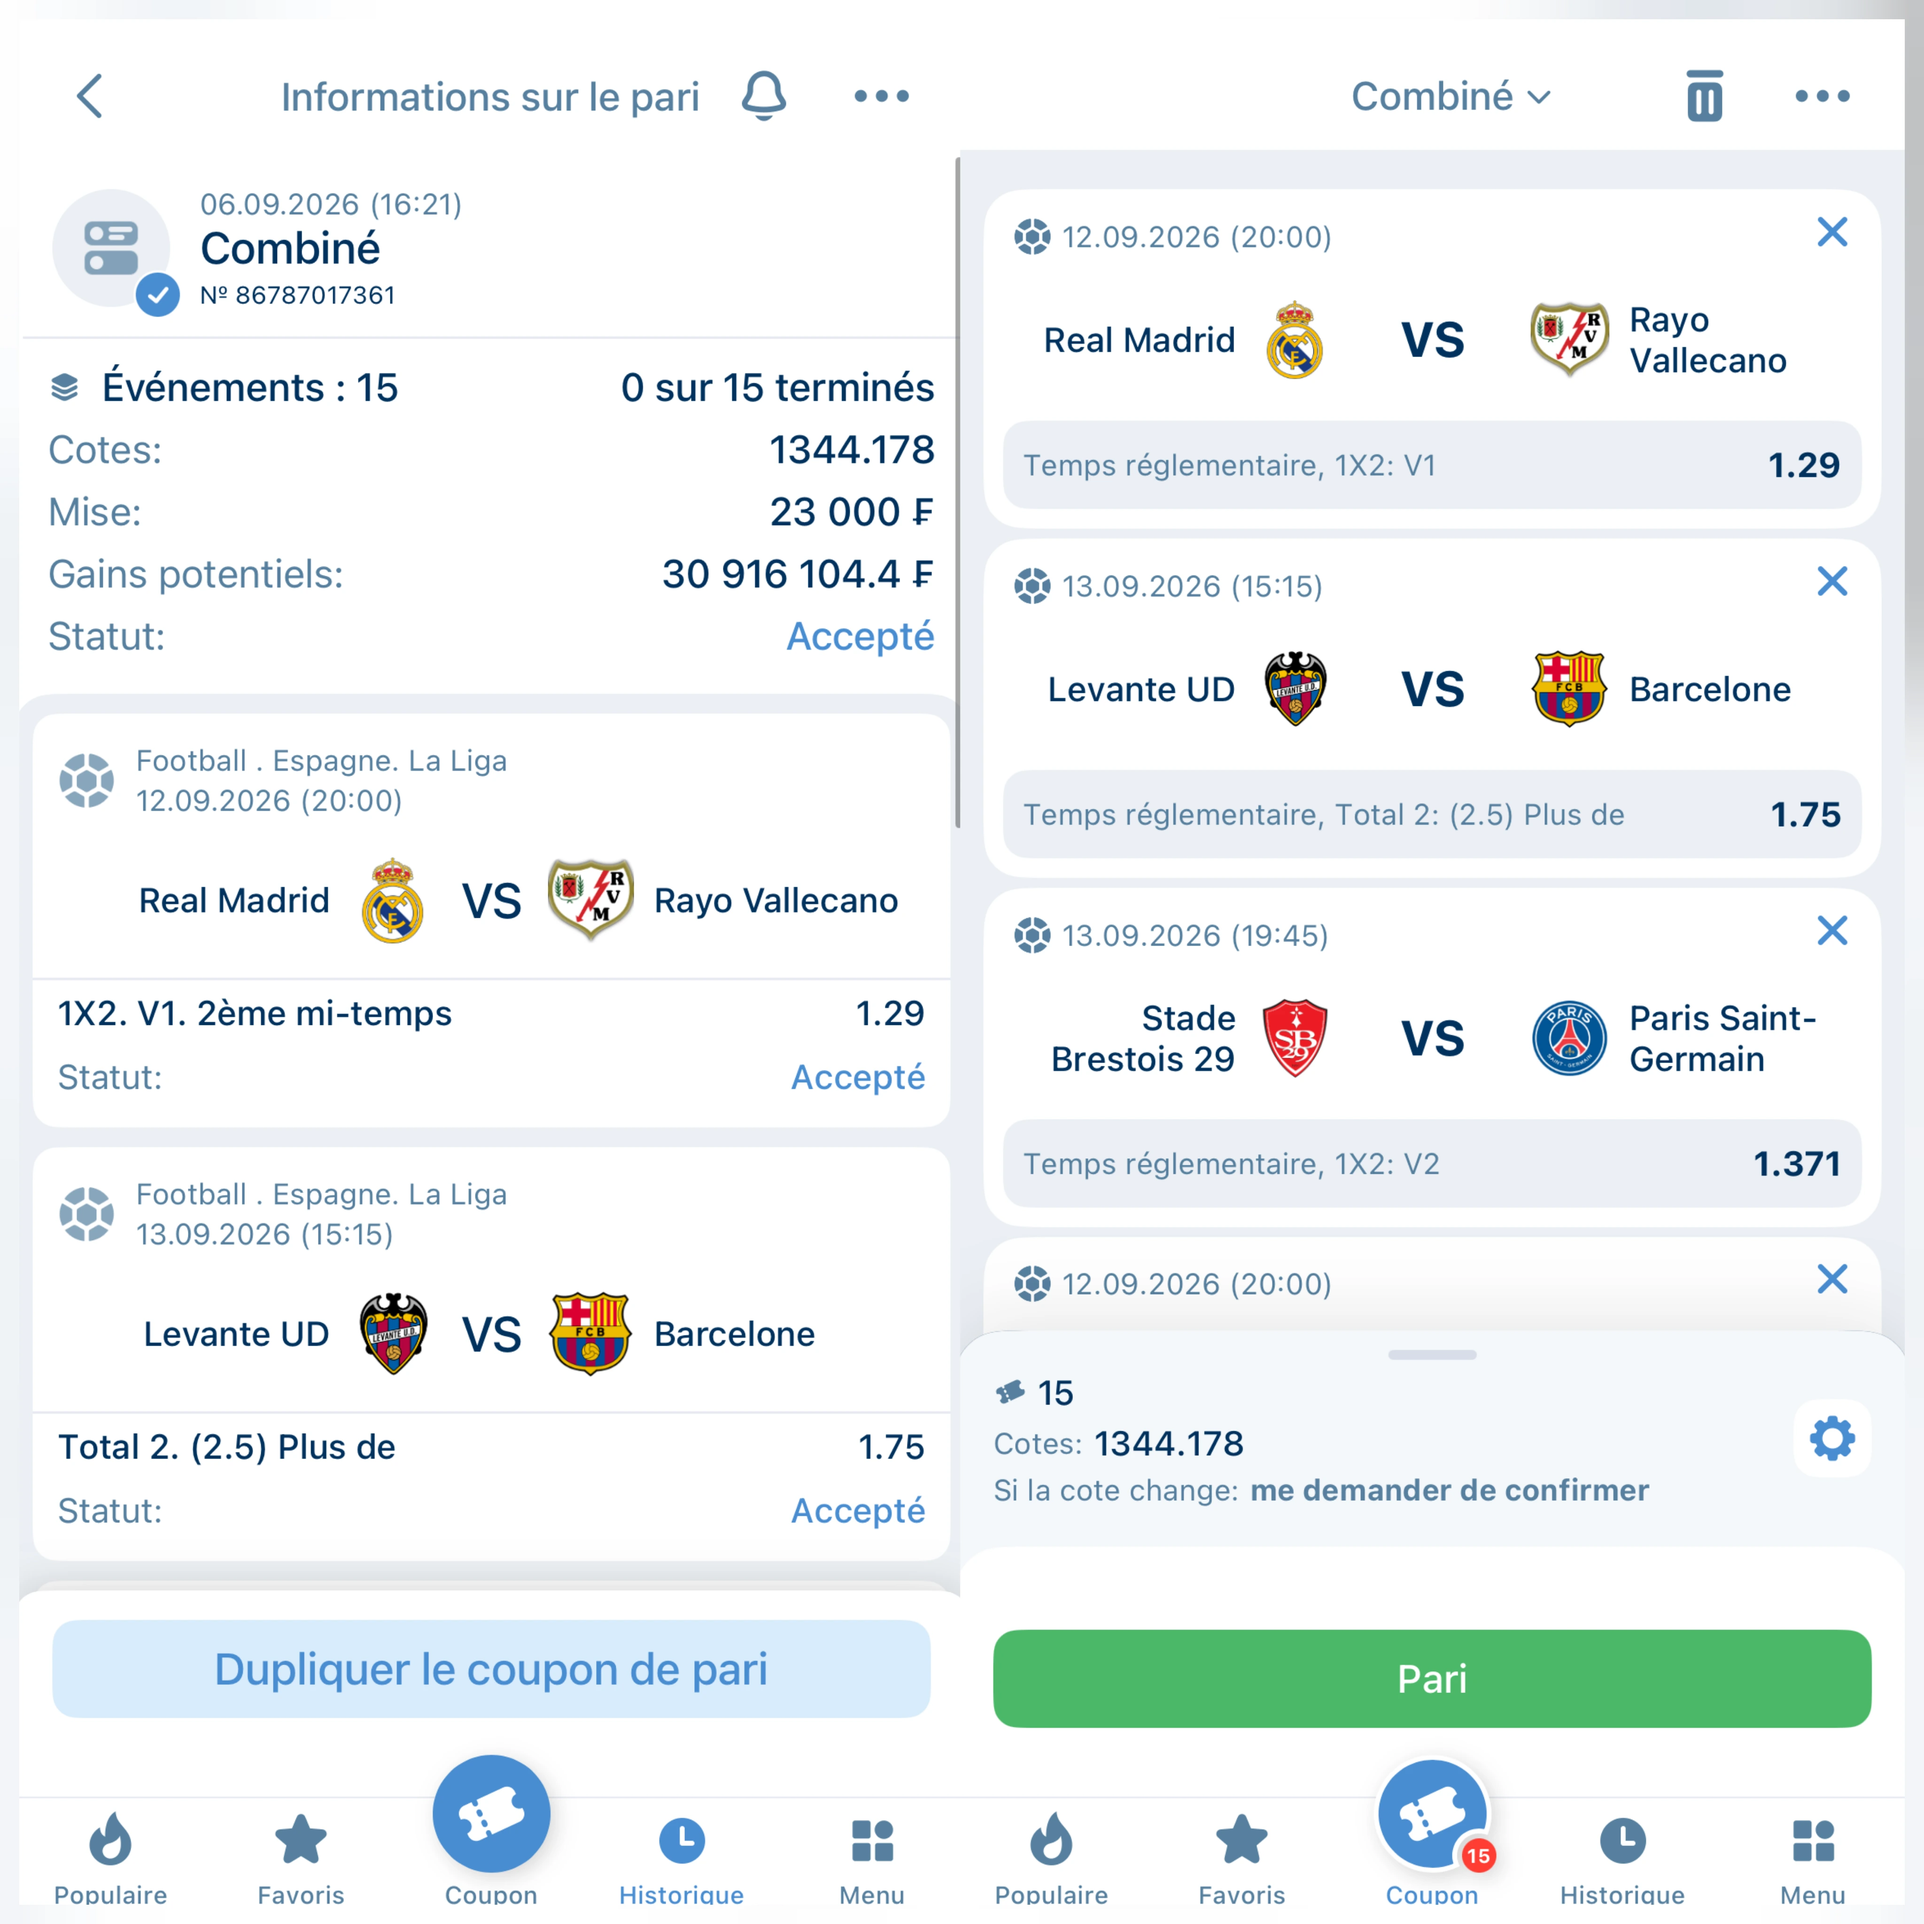
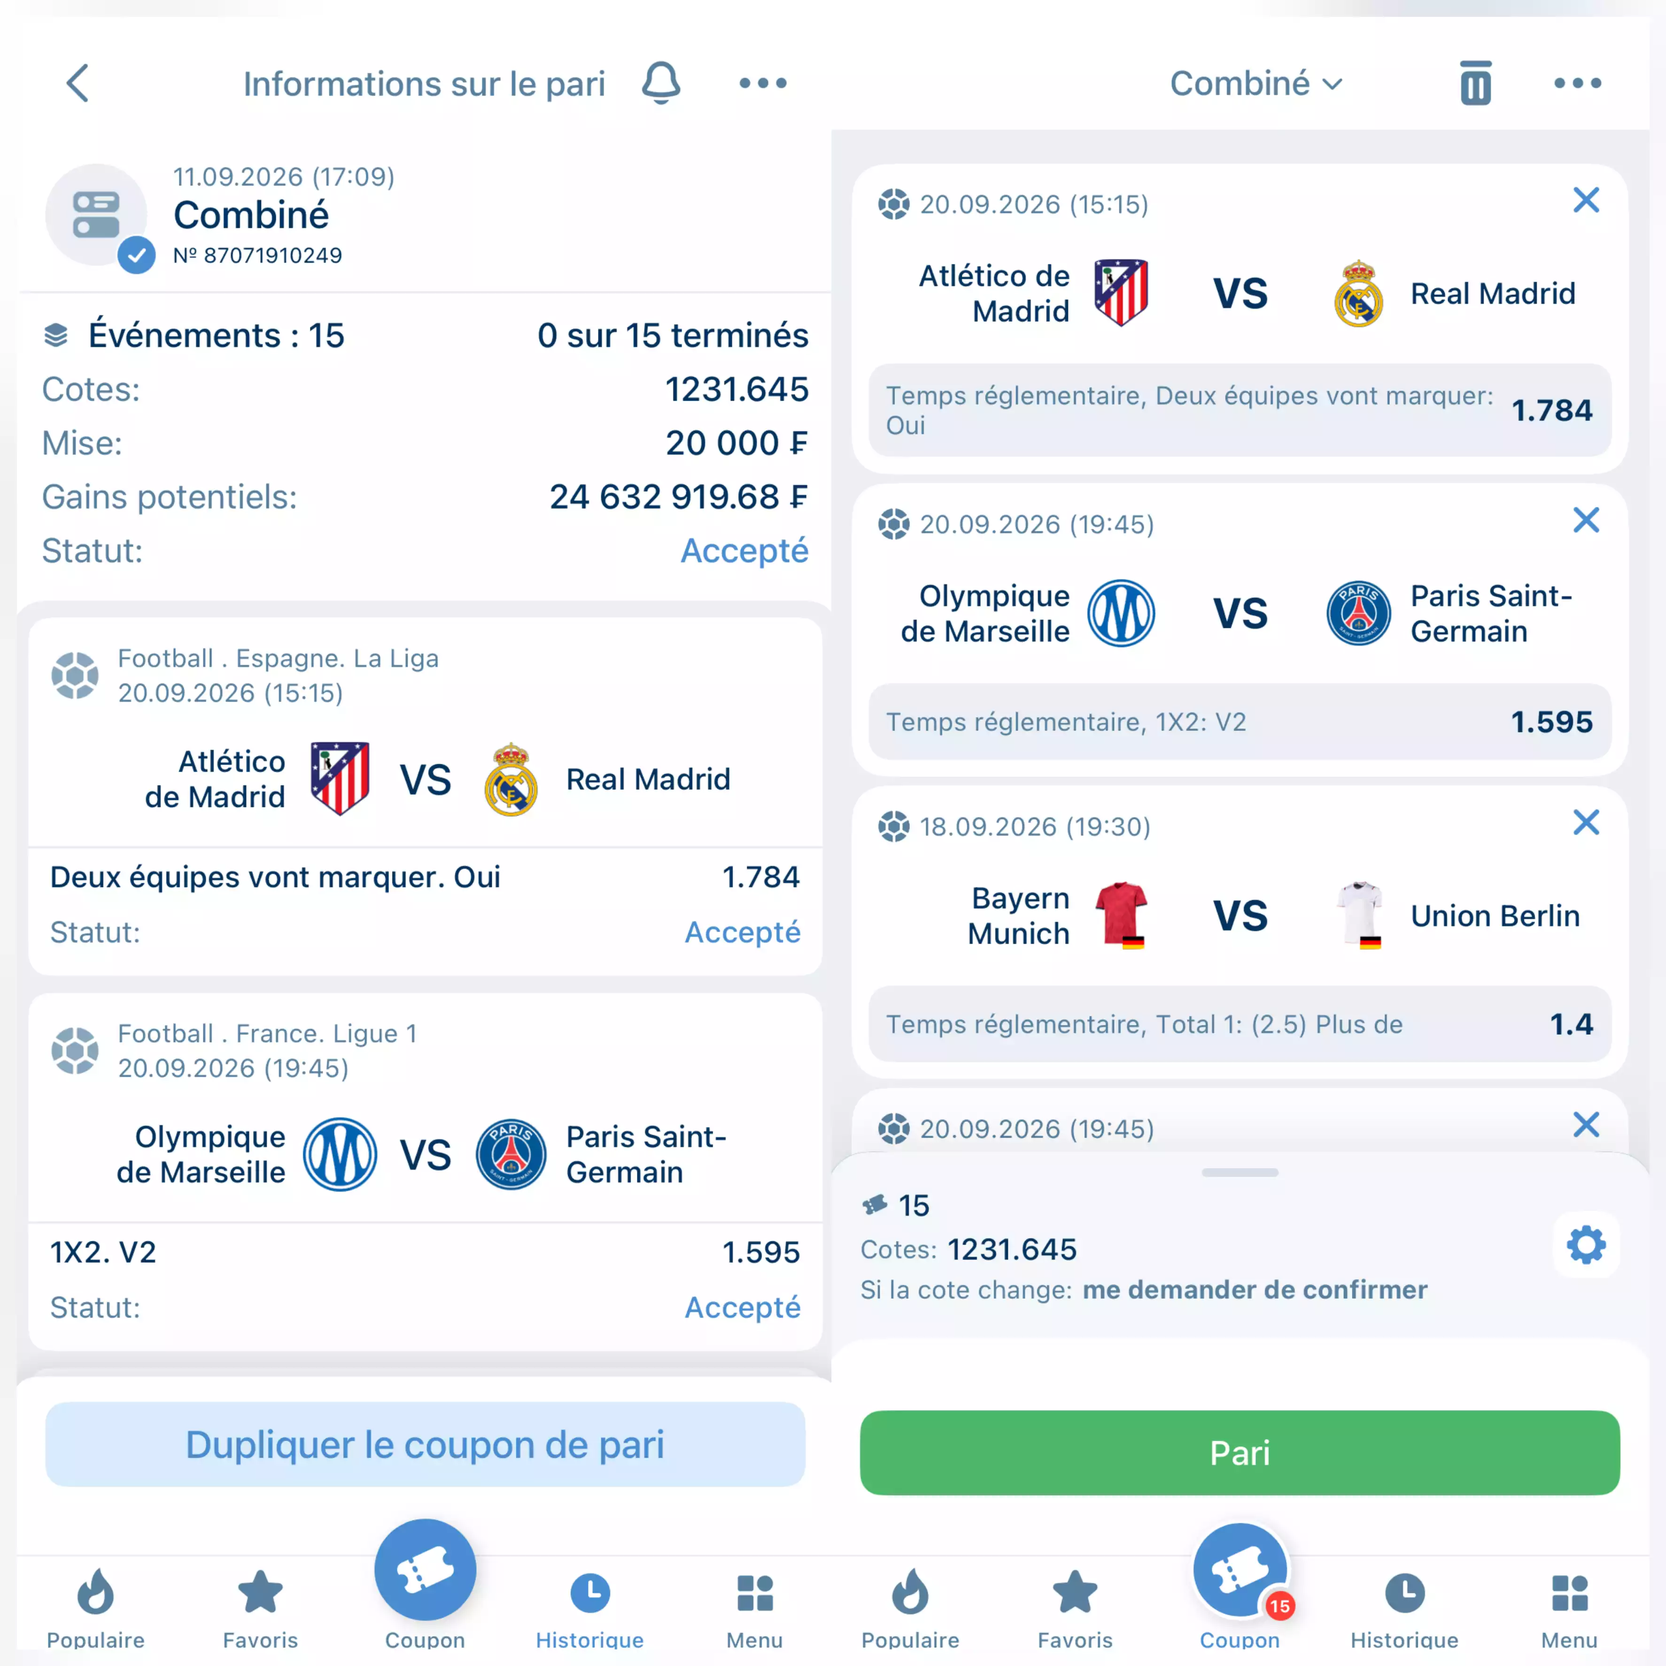
20_09 ads

diff --git a/src/constants/data.ts b/src/constants/data.ts
@@ -2,10 +2,10 @@ import { CouponData, WinningCoupon } from "@/types/dataTypes";
 
 export const COUPON_DATA: CouponData = {
   id: 1,
-  odds: 1344.178,
-  stake: 23000,
-  gain: 30916104.4,
-  date: "12/09/2026",
+  odds: 1231.645,
+  stake: 20000,
+  gain: 24632919.68,
+  date: "18/09/2026",
   image_url: "/assets/coupons_jour.webp",
   whatsapp_link:
     "https://chat.whatsapp.com/KZ1PQC6akFw6y8OaYlYT75?s=cl&p=i&mlu=4&ilr=4",
@@ -13,11 +13,19 @@ export const COUPON_DATA: CouponData = {
 
 export const WONNING_COUPONS: WinningCoupon[] = [
   {
-    id: 1,
-    odds: 494.247,
+    id: 0,
+    odds: 403.645,
     stake: 5000,
-    gain: 2471235.07,
-    date: "05/09/2026",
+    gain: 2016245.83,
+    date: "12/09/2026",
+    image_url: "/assets/won_0.jpg",
+  },
+  {
+    id: 1,
+    odds: 682.217,
+    stake: 5000,
+    gain: 3416086.05,
+    date: "10/09/2026",
     image_url: "/assets/won_1.jpg",
   },
   {
@@ -67,5 +75,13 @@ export const WONNING_COUPONS: WinningCoupon[] = [
     gain: 2515060.21,
     date: "26/08/2026",
     image_url: "/assets/won_7.jpg",
+  },
+  {
+    id: 8,
+    odds: 494.247,
+    stake: 5000,
+    gain: 2471235.07,
+    date: "05/09/2026",
+    image_url: "/assets/won_8.jpg",
   },
 ];
